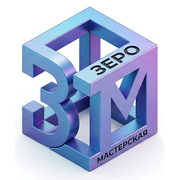
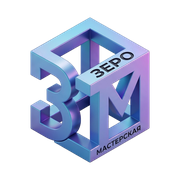
Add files via upload

diff --git a/index.html b/index.html
@@ -33,7 +33,7 @@ a{color:inherit}
 .wrap{max-width:1080px;margin:0 auto;padding:0 22px}
 header .wrap{display:flex;align-items:center;justify-content:space-between;gap:16px;padding-top:20px;padding-bottom:20px}
 .brand{font:600 15px/1.1 var(--head);text-decoration:none;display:flex;align-items:center;gap:10px}
-.brand img{height:40px;width:auto;border-radius:8px;display:block}
+.brand img{height:40px;width:auto;display:block}
 nav{display:flex;gap:22px;font-weight:500;font-size:15px}
 nav a{text-decoration:none;color:var(--muted)}
 nav a:hover{color:var(--text)}
@@ -48,7 +48,7 @@ h1{font:600 clamp(27px,4.6vw,50px)/1.16 var(--head);margin:0 0 22px;letter-spaci
 .hero-cta span{color:var(--muted);font-size:15px}
 .stage{position:relative;width:100%;max-width:340px;justify-self:center}
 .stage::before{content:"";position:absolute;inset:-12%;background:radial-gradient(closest-side,rgba(126,196,240,.5),rgba(181,127,224,.28) 55%,transparent 78%);filter:blur(24px)}
-.cube{display:block;position:relative;width:100%;height:auto;border-radius:28px}
+.cube{display:block;position:relative;width:100%;height:auto;filter:drop-shadow(0 18px 28px rgba(80,70,170,.22))}
 .cube .f{transform-box:fill-box}
 .chips{list-style:none;display:flex;flex-wrap:wrap;gap:10px;padding:0;margin:34px 0 0}
 .chips li{font-size:14px;font-weight:500;padding:8px 15px;border:1px solid var(--line);border-radius:99px;background:var(--bg)}
@@ -125,7 +125,6 @@ article.work:hover{transform:none;box-shadow:none}
 .contacts{display:flex;flex-wrap:wrap;gap:12px;justify-content:center}
 .cta .btn.ghost{background:transparent;color:#fff;border:2px solid rgba(255,255,255,.75)}
 @media (max-width:520px){ol.steps{grid-template-columns:1fr}.price{white-space:normal}.btn{padding:15px 20px}}
-@media (prefers-color-scheme:dark){:root:not([data-theme="light"]) .cube,:root:not([data-theme="light"]) .brand img{box-shadow:0 0 0 1px rgba(255,255,255,.1),0 24px 60px rgba(0,0,0,.45)}}
 @media (prefers-reduced-motion:no-preference){.cube{animation:in .9s cubic-bezier(.2,.7,.2,1) both}}
 footer{background:var(--alt);padding:56px 0 32px;border-top:1px solid var(--line)}
 footer .wrap{display:block}
@@ -149,6 +148,32 @@ footer .wrap{display:block}
   footer{padding:44px 0 28px}
 }
 @media (max-width:560px){.f-grid{grid-template-columns:1fr;gap:28px}.cta-points{flex-direction:column;align-items:center;gap:6px}}
+
+:root{--grid:rgba(63,111,203,.13);--bp:#0e1538}
+@media (prefers-color-scheme:dark){:root:not([data-theme="light"]){--grid:rgba(141,177,245,.15);--bp:#131d52}}
+.hero{position:relative;isolation:isolate}
+.hero::before{content:"";position:absolute;inset:0 -22px;z-index:-1;background:repeating-linear-gradient(30deg,transparent 0 33px,var(--grid) 33px 34px),repeating-linear-gradient(150deg,transparent 0 33px,var(--grid) 33px 34px);-webkit-mask-image:radial-gradient(ellipse 70% 80% at 78% 50%,#000 20%,transparent 75%);mask-image:radial-gradient(ellipse 70% 80% at 78% 50%,#000 20%,transparent 75%)}
+h1{font-size:clamp(26px,4.4vw,46px)}
+.dim{position:relative;margin-top:22px;border-top:1px solid var(--acc);text-align:center;font-size:13px;font-weight:500;color:var(--acc)}
+.dim::before,.dim::after{content:"";position:absolute;top:-7px;width:1px;height:13px;background:var(--acc)}
+.dim::before{left:0}.dim::after{right:0}
+.dim span{position:relative;top:-.85em;padding:0 10px;background:var(--bg)}
+.band i{position:absolute;z-index:2;left:calc(9% + 12px);right:calc(9% + 12px);top:36px;height:22px;display:flex;align-items:center;padding:0 12px;font:500 12px/1 var(--body);font-style:normal;color:#5a5f73;background:#eef0f8;border-radius:99px}
+.band::after{top:68px}
+#process.bp{background-color:var(--bp);background-image:linear-gradient(rgba(255,255,255,.055) 1px,transparent 1px),linear-gradient(90deg,rgba(255,255,255,.055) 1px,transparent 1px);background-size:32px 32px;color:#eef1ff}
+#process.bp h2{color:#fff}
+#process.bp ol.steps li{background:rgba(255,255,255,.05);border:1px solid rgba(255,255,255,.22)}
+#process.bp ol.steps h3{color:#fff}
+#process.bp ol.steps p{color:#b9c1e6}
+#process.bp ol.steps li::before{background:linear-gradient(120deg,var(--sky),var(--lilac));color:#0e1538}
+.price{background:linear-gradient(var(--bg),var(--bg)) padding-box,linear-gradient(120deg,var(--sky),var(--lilac)) border-box;border:1.5px solid transparent}
+@media (max-width:820px){.hero::before{-webkit-mask-image:radial-gradient(ellipse 90% 45% at 50% 78%,#000 20%,transparent 75%);mask-image:radial-gradient(ellipse 90% 45% at 50% 78%,#000 20%,transparent 75%)}}
+
+/* плавные переходы между блоками */
+section.alt{background:linear-gradient(var(--bg),var(--alt) 90px,var(--alt) calc(100% - 90px),var(--bg))}
+#process.bp{--f:150px;padding:calc(var(--f) - 40px) 0;background-color:var(--bg);background-image:linear-gradient(rgba(255,255,255,.055) 1px,transparent 1px),linear-gradient(90deg,rgba(255,255,255,.055) 1px,transparent 1px),linear-gradient(var(--bg),var(--bp) var(--f),var(--bp) calc(100% - var(--f)),var(--bg));background-size:32px 32px,32px 32px,100% 100%}
+@media (max-width:820px){section.alt{background:linear-gradient(var(--bg),var(--alt) 56px,var(--alt) calc(100% - 56px),var(--bg))}#process.bp{--f:110px;padding:calc(var(--f) - 24px) 0}}
+footer{background:linear-gradient(var(--bg),var(--alt) 60px)}
 </style>
 </head>
 <body>
@@ -172,15 +197,15 @@ footer .wrap{display:block}
 <main id="top">
   <div class="wrap hero">
     <div>
-      <h1>Сайты для малого бизнеса в Самаре</h1>
-      <p class="lead">Лендинги, многостраничные сайты и интернет-магазины для детских центров, студий, загородных баз и мастеров. Структура, дизайн, вёрстка и запуск. Сайт открывается на телефоне и приводит заявки.</p>
+      <h1>Проектирую сайты для малого бизнеса в Самаре</h1>
+      <p class="lead">Я студент-архитектор и делаю сайты по чертежу: сначала структура, потом дизайн, потом вёрстка. Для детских центров, студий, загородных баз и мастеров. Сайт открывается на телефоне и приводит заявки.</p>
       <div class="hero-cta">
         <a class="btn" href="#contact">Обсудить сайт</a>
         <span>Отвечаю в Telegram в течение дня</span>
       </div>
       <ul class="chips"><li>Адаптив под телефон</li><li>Быстрая загрузка</li><li>Правки после запуска</li></ul>
     </div>
-    <div class="stage"><img class="cube" src="logo.png" alt="Логотип Зеро Мастерская: объёмный куб с буквами З и М" width="516" height="621"></div>
+    <div class="stage"><img class="cube" src="logo.png" alt="Логотип Зеро Мастерская: объёмный куб с буквами З и М" width="700" height="846"><div class="dim"><span>телефон, планшет, компьютер</span></div></div>
   </div>
 
   <section id="services" class="alt">
@@ -199,11 +224,11 @@ footer .wrap{display:block}
     <div class="wrap">
       <h2>Недавние работы</h2>
       <div class="works">
-        <article class="work"><div class="band"></div><div class="t"><b>АЮВИ (Auvikids)</b><span class="tag">Детский образовательный центр, Самара</span>
+        <article class="work"><div class="band"><i>auvikids.ru</i></div><div class="t"><b>АЮВИ (Auvikids)</b><span class="tag">Детский образовательный центр, Самара</span>
           <dl><dt>Задача</dt><dd>Рассказать о шести направлениях и команде центра, чтобы родитель мог записаться на пробное занятие.</dd>
           <dt>Что сделано</dt><dd>Главная с программами: у каждой своё окно с возрастом, ценой и формой заявки. Разделы «Команда», «Частые вопросы», статьи и страница лагеря. Сайт на Tilda.</dd></dl>
           <a class="open" href="https://auvikids.ru" target="_blank" rel="noopener">Открыть auvikids.ru</a></div></article>
-        <article class="work"><div class="band"></div><div class="t"><b>Домик у озера</b><span class="tag">Аренда барнхаусов, Царевщина</span>
+        <article class="work"><div class="band"><i>domikyozera63.ru</i></div><div class="t"><b>Домик у озера</b><span class="tag">Аренда барнхаусов, Царевщина</span>
           <dl><dt>Задача</dt><dd>Показать дома и дать гостям понятный способ связаться с владельцами.</dd>
           <dt>Что сделано</dt><dd>Сайт на Tilda с описанием домов, фотографиями и контактами. После запуска веду сайт и вношу правки.</dd></dl>
           <a class="open" href="https://domikyozera63.ru" target="_blank" rel="noopener">Открыть domikyozera63.ru</a></div></article>
@@ -227,7 +252,7 @@ footer .wrap{display:block}
     </div>
   </section>
 
-  <section id="process">
+  <section id="process" class="bp">
     <div class="wrap">
       <h2>Как проходит работа</h2>
       <ol class="steps">
